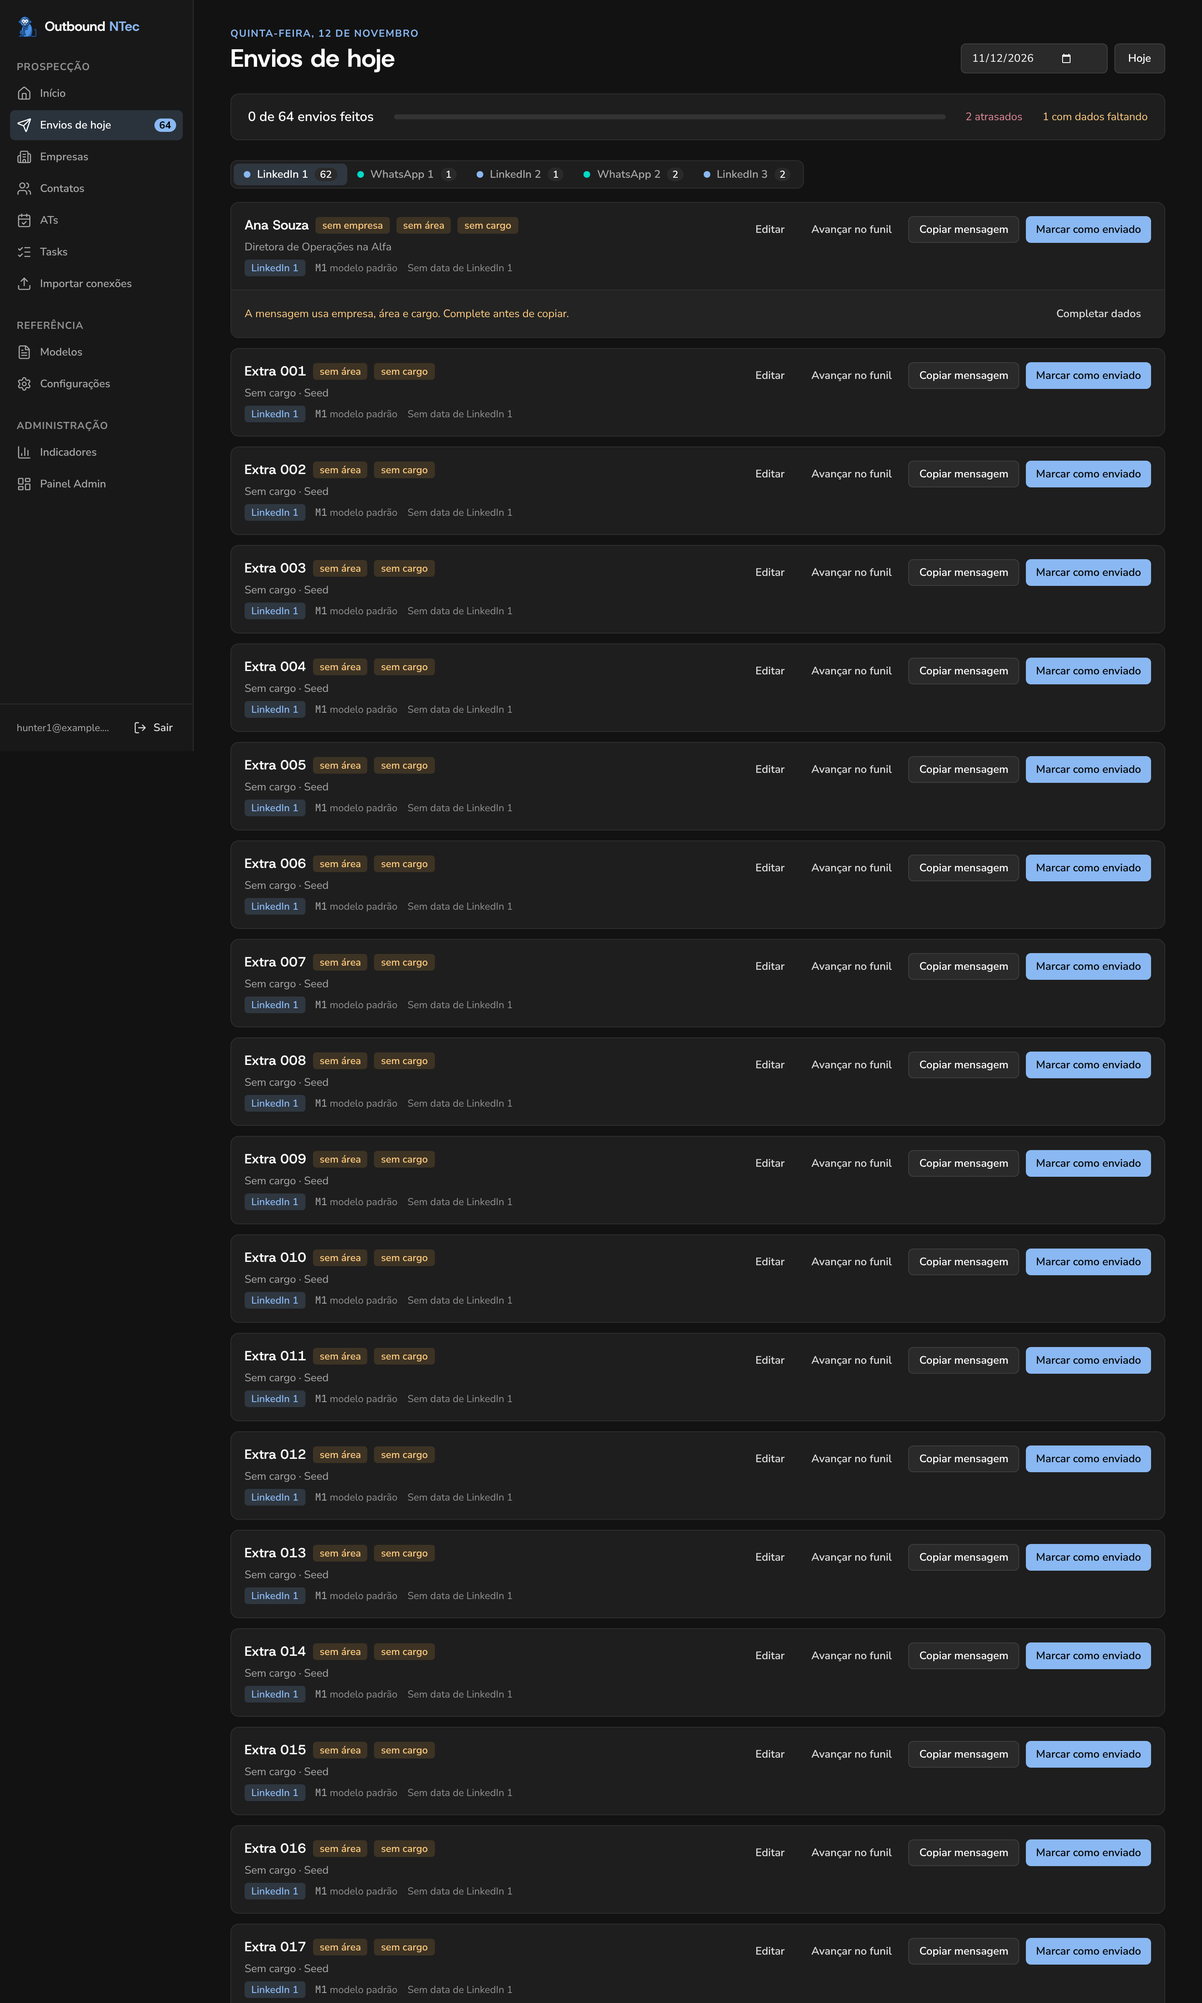
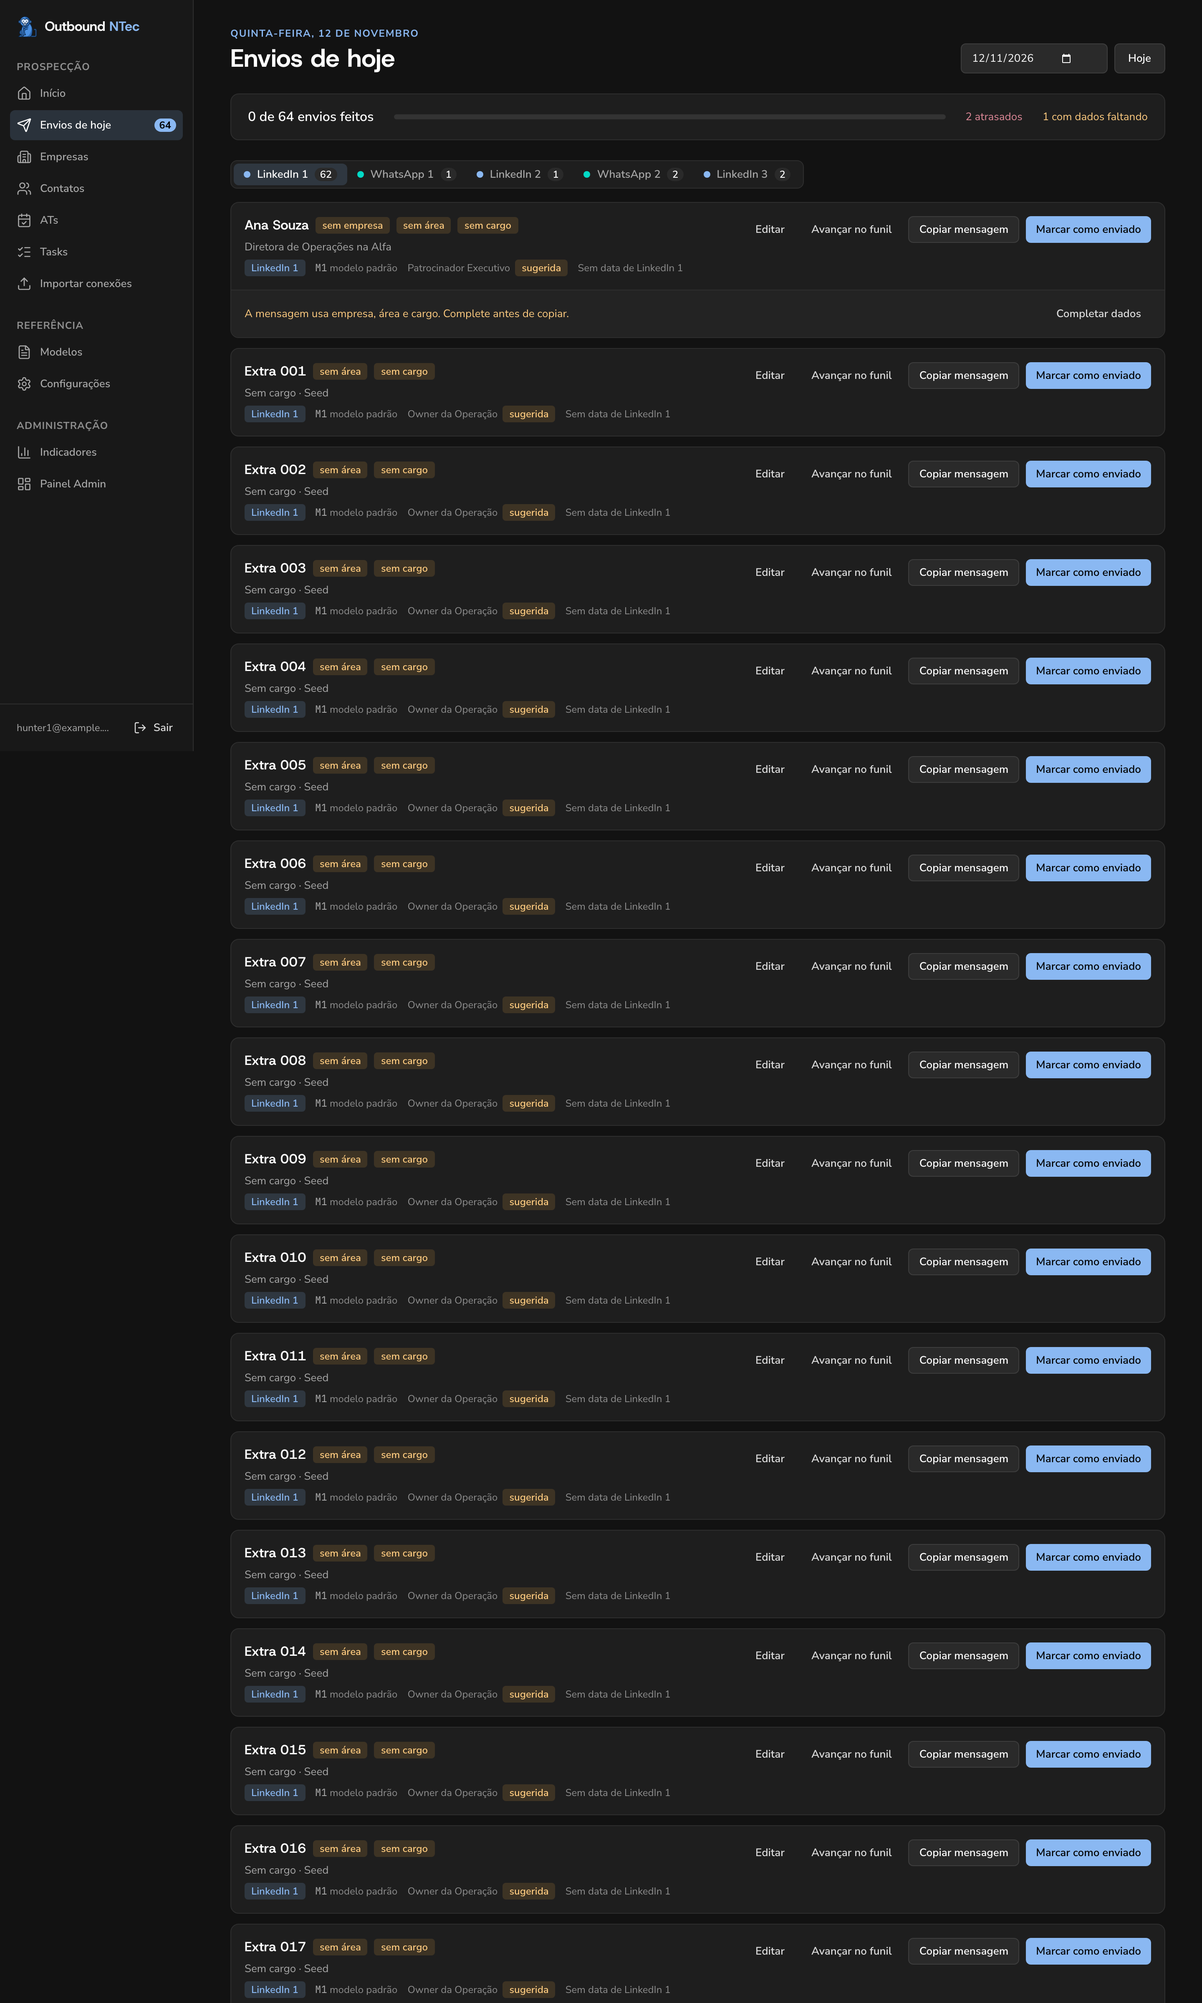
feat(hoje): mostra subsetor e persona da mensagem nos envios
O cartão da fila mostra setor › subsetor, o código da mensagem com a
origem no title e a persona efetiva do contato, com o selo "sugerida"
quando ainda não foi confirmada. O novo PersonaSelect, na faixa de dados
do lead, grava a persona escolhida (inclusive a sugerida, que confirma).

diff --git a/e2e/hoje.spec.ts b/e2e/hoje.spec.ts
@@ -71,6 +71,88 @@ test.describe("Envios de hoje", () => {
     );
   });
 
+  test("o cartão mostra a persona sugerida pelo cargo e a mensagem da persona", async ({
+    page,
+  }) => {
+    await page.goto("/hoje");
+    await page.getByRole("tab", { name: /^WhatsApp 2/ }).click();
+    const card = page.getByRole("article", { name: "Diego Rocha" });
+    await expect(card.getByText("Patrocinador Executivo")).toBeVisible();
+    await expect(card.getByText("sugerida", { exact: true })).toBeVisible();
+    // Setor da empresa, código com a origem do modelo e a persona usada.
+    await expect(card.getByText("Varejo", { exact: true })).toBeVisible();
+    const codigo = card.getByText("VAR4PE", { exact: true });
+    await expect(codigo).toHaveAttribute("title", "Varejo · Patrocinador Executivo");
+    await card.getByRole("button", { name: "Copiar mensagem" }).click();
+    await expect(page.getByText("Mensagem copiada")).toBeVisible();
+    expect(await page.evaluate(() => navigator.clipboard.readText())).toBe(
+      "Oi, Diego! Conversa de patrocinador na Delta.",
+    );
+  });
+
+  test("o código do modelo padrão diz a origem no title", async ({ page }) => {
+    await page.goto("/hoje");
+    await page.getByRole("tab", { name: /^WhatsApp 1/ }).click();
+    const card = page.getByRole("article", { name: "Bruno Lima" });
+    await expect(card.getByText("M2", { exact: true })).toHaveAttribute(
+      "title",
+      "Modelo padrão da equipe",
+    );
+    await expect(card.getByText("Owner da Tecnologia")).toBeVisible();
+  });
+
+  test("empresa com subsetor mostra setor › subsetor e a cadência do subsetor", async ({
+    page,
+  }) => {
+    await page.goto("/hoje");
+    const card = page.getByRole("article", { name: "Carla Dias" });
+    await expect(card.getByText("Indústria › Metalurgia", { exact: true })).toBeVisible();
+    await expect(card.getByText("MET1", { exact: true })).toHaveAttribute(
+      "title",
+      "Indústria › Metalurgia · qualquer persona",
+    );
+    await expect(card.getByText("cadência do setor")).toBeVisible();
+    await card.getByRole("button", { name: "Copiar mensagem" }).click();
+    await expect(page.getByText("Mensagem copiada")).toBeVisible();
+    expect(await page.evaluate(() => navigator.clipboard.readText())).toBe(
+      "Olá, Carla! Metalurgia 1 na Ômicron.",
+    );
+  });
+
+  test("persona sugerida aparece com selo e escolher uma persona grava no contato", async ({
+    page,
+  }) => {
+    await page.goto("/hoje");
+    const card = page.getByRole("article", { name: "Ana Souza" });
+    await card.getByRole("button", { name: "Completar dados" }).click();
+    const persona = card.getByRole("combobox", { name: "Persona" });
+    await expect(persona).toHaveValue("");
+    await expect(persona.locator("option").first()).toHaveText("Sugerida: Patrocinador Executivo");
+    // Um selo na meta-linha do cartão e outro ao lado do seletor.
+    await expect(card.getByText("sugerida", { exact: true })).toHaveCount(2);
+    expect(await mutations()).toEqual([]);
+
+    await persona.selectOption({ label: "Owner da Tecnologia" });
+    await expect.poll(async () => (await mutations()).length).toBe(1);
+    const [m] = await mutations();
+    expect(m).toMatchObject({ method: "PATCH", table: "contacts" });
+    expect(JSON.parse(m!.body)).toEqual({ persona: "owner_tecnologia" });
+  });
+
+  test("escolher a persona sugerida na lista também grava (confirma a sugestão)", async ({
+    page,
+  }) => {
+    await page.goto("/hoje");
+    const card = page.getByRole("article", { name: "Ana Souza" });
+    await card.getByRole("button", { name: "Completar dados" }).click();
+    await card
+      .getByRole("combobox", { name: "Persona" })
+      .selectOption({ label: "Patrocinador Executivo" });
+    await expect.poll(async () => (await mutations()).length).toBe(1);
+    const [m] = await mutations();
+    expect(JSON.parse(m!.body)).toEqual({ persona: "patrocinador_executivo" });
+  });
+
   test("lead sem empresa pede a empresa antes de copiar", async ({ page }) => {
     await page.goto("/hoje");
     await page.getByRole("button", { name: "Copiar mensagem" }).first().click();

diff --git a/e2e/empresas.spec.ts b/e2e/empresas.spec.ts
@@ -15,7 +15,8 @@ test.describe("Empresas", () => {
     ).toBeVisible();
     await expect(page.getByText("· 2 empresas", { exact: true })).toBeVisible();
     await expect(page.getByPlaceholder("Empresa").first()).toHaveValue("Delta");
-    await expect(page.getByText("1 contato", { exact: true })).toBeVisible();
+    // Delta (Diego) e Ômicron (Carla) têm um contato cada.
+    await expect(page.getByText("1 contato", { exact: true })).toHaveCount(2);
     // Só a Delta (Varejo) está incompleta; a Ômicron (Metalurgia) tem as 5 etapas.
     await expect(page.getByText("cadência do setor incompleta")).toHaveCount(1);
   });
@@ -99,11 +100,12 @@ test.describe("Empresas", () => {
       .filter({ has: page.getByRole("button", { name: "Copiar mensagem" }) })
       .last();
     await expect(card.getByText("Varejo", { exact: true })).toBeVisible();
-    await expect(card.getByText("VAR4")).toBeVisible();
+    // Diego é CEO (Patrocinador Executivo): a mensagem da persona vence a de "qualquer persona" (VAR4).
+    await expect(card.getByText("VAR4PE")).toBeVisible();
     await card.getByRole("button", { name: "Copiar mensagem" }).click();
     await expect(page.getByText("Mensagem copiada")).toBeVisible();
     expect(await page.evaluate(() => navigator.clipboard.readText())).toBe(
-      "Oi, Diego! Cadência do varejo na Delta.",
+      "Oi, Diego! Conversa de patrocinador na Delta.",
     );
   });
 
@@ -122,7 +124,15 @@ test.describe("Empresas", () => {
 
     const m = (await mutations()).find((x) => x.table === "sector_templates");
     expect(m).toMatchObject({ method: "POST" });
-    const rows = JSON.parse(m!.body) as { step: number; code: string; body: string }[];
+    const todas = JSON.parse(m!.body) as {
+      persona: string;
+      step: number;
+      code: string;
+      body: string;
+    }[];
+    // A persona Patrocinador Executivo, que já tinha texto, também segue junto (5 etapas).
+    expect(todas.filter((r) => r.persona === "patrocinador_executivo")).toHaveLength(5);
+    const rows = todas.filter((r) => r.persona === "");
     expect(rows).toHaveLength(5);
     expect(rows[0]).toMatchObject({
       sector_id: SETOR_VAREJO,
@@ -216,7 +226,9 @@ test.describe("Empresas", () => {
     expect(qualquer).toHaveLength(STEPS.length);
     expect(qualquer.find((r) => r.step === 4)).toMatchObject({ code: "VAR4" });
     // Personas sem texto nem linhas salvas não são enviadas.
-    expect(new Set(rows.map((r) => r.persona))).toEqual(new Set(["", "owner_operacao"]));
+    expect(new Set(rows.map((r) => r.persona))).toEqual(
+      new Set(["", "owner_operacao", "patrocinador_executivo"]),
+    );
   });
 
   test("preencher vazias com o padrão numa persona não altera as outras abas", async ({ page }) => {

diff --git a/src/components/hoje/useQueueActions.ts b/src/components/hoje/useQueueActions.ts
@@ -4,12 +4,13 @@ import {
   useCompanies,
   useProfile,
   useSectorCadences,
-  useSectors,
+  useSectorTree,
   useTemplates,
   useUpdateContact,
 } from "@/hooks/useCadencia";
 import { renderTemplate, whatsappLink, type Contact, type StepDef } from "@/lib/cadencia";
-import { markSentPatch, missingForMessage, resolveTemplate } from "@/lib/fila";
+import { markSentPatch, missingForMessage, resolveTemplate, templateOriginLabel } from "@/lib/fila";
+import { sectorPath } from "@/lib/empresas";
 import { contactPersona } from "@/lib/personas";
 
 /** Ações da fila do dia: marcar envio, copiar/abrir mensagem e completar dados do lead. */
@@ -17,10 +18,9 @@ export function useQueueActions(ref: string) {
   const { data: templates } = useTemplates();
   const { data: profile } = useProfile();
   const { data: companies } = useCompanies();
-  const { data: sectors } = useSectors();
+  const { data: sectors } = useSectorTree();
   const { data: cadences } = useSectorCadences();
   const companyById = useMemo(() => new Map((companies ?? []).map((c) => [c.id, c])), [companies]);
-  const sectorName = useMemo(() => new Map((sectors ?? []).map((s) => [s.id, s.name])), [sectors]);
   const update = useUpdateContact();
   /** Lead que precisa da empresa preenchida antes de gerar a mensagem. */
   const [needCompany, setNeedCompany] = useState<string | null>(null);
@@ -41,10 +41,12 @@ export function useQueueActions(ref: string) {
       },
     );
 
-  /** Setor (ramo) da empresa vinculada ao contato, se houver. */
+  /** Setor (ramo) da empresa vinculada ao contato, com o subsetor quando há: "Indústria › Metalurgia". */
   function sectorOf(contact: Contact): { id: string; name: string } | null {
     const co = contact.company_id ? companyById.get(contact.company_id) : undefined;
-    return co ? { id: co.sector_id, name: sectorName.get(co.sector_id) ?? "" } : null;
+    return co
+      ? { id: co.sector_id, name: sectorPath(sectors ?? [], co.sector_id, co.subsector_id) }
+      : null;
   }
 
   /**
@@ -62,7 +64,13 @@ export function useQueueActions(ref: string) {
       defaults: templates,
     });
     return found
-      ? { code: found.code, body: found.body, fromSector: found.level !== "padrao" }
+      ? {
+          code: found.code,
+          body: found.body,
+          fromSector: found.level !== "padrao",
+          /** Ex.: "Varejo · Patrocinador Executivo" ou "Modelo padrão da equipe". */
+          origin: templateOriginLabel(found, sectors ?? []),
+        }
       : null;
   }
 

diff --git a/src/components/hoje/QueueCard.tsx b/src/components/hoje/QueueCard.tsx
@@ -5,6 +5,7 @@ import { Button } from "@/components/ui/button";
 import { onlyDigits, type Contact, type StepDef } from "@/lib/cadencia";
 import { withSyncedStatus } from "@/lib/contatos";
 import { missingForMessage, type QueueItem } from "@/lib/fila";
+import { contactPersona, PERSONA_LABEL } from "@/lib/personas";
 import { cn } from "@/lib/utils";
 import { CompanyFix } from "./CompanyFix";
 import { LeadFields } from "./LeadFields";
@@ -44,6 +45,7 @@ export function QueueCard({
   const noArea = step.n === 1 && !contact.sector;
   const noCargo = step.n === 1 && !contact.job_title.trim();
   const sector = actions.sectorOf(contact);
+  const persona = contactPersona(contact);
   const template = actions.templateFor(contact, step);
   const missing = missingForMessage(contact, step, template?.body);
   const askedCompany = actions.needCompany === contact.id && noCompany;
@@ -104,14 +106,23 @@ export function QueueCard({
               </p>
               <div className="flex flex-wrap items-center gap-x-3 gap-y-1 text-caption text-subtle-foreground">
                 <ChannelBadge channel={step.channel}>{step.label}</ChannelBadge>
+                {sector?.name && <span>{sector.name}</span>}
                 {template && (
                   <span>
-                    <span className="font-mono text-muted-foreground">
+                    <span className="font-mono text-muted-foreground" title={template.origin}>
                       {template.code || (template.fromSector ? "setor" : "padrão")}
                     </span>{" "}
                     {template.fromSector ? "cadência do setor" : "modelo padrão"}
                   </span>
                 )}
+                <span>
+                  {PERSONA_LABEL[persona.persona]}
+                  {persona.suggested && (
+                    <span className="ml-1.5 rounded-sm bg-warning-soft px-2 py-0.5 font-semibold text-warning-text">
+                      sugerida
+                    </span>
+                  )}
+                </span>
                 {!late && (
                   <span>
                     {step.n === 1 && !planned
@@ -119,7 +130,6 @@ export function QueueCard({
                       : `previsto ${ddmm(planned)}`}
                   </span>
                 )}
-                {sector && <span>{sector.name}</span>}
               </div>
             </div>
             <div className="flex shrink-0 items-center gap-2">

diff --git a/src/components/PersonaSelect.tsx b/src/components/PersonaSelect.tsx
@@ -1,0 +1,50 @@
+import { NativeSelect } from "@/components/ui/native-select";
+import { PERSONAS, PERSONA_LABEL, type Persona } from "@/lib/personas";
+import { cn } from "@/lib/utils";
+
+/**
+ * Seletor da persona do contato. Com `value` nulo a persona ainda é a sugerida pelo cargo: a
+ * primeira opção mostra "Sugerida: <rótulo>" e um selo avisa. Escolher qualquer persona, inclusive
+ * a sugerida, grava e confirma (`onChange`). `compact` serve à tabela de Contatos (`h-8`).
+ */
+export function PersonaSelect({
+  value,
+  suggested,
+  onChange,
+  compact = false,
+  className,
+}: {
+  /** Persona gravada no contato (`null` = ainda sugerida). */
+  value: Persona | null;
+  /** Persona sugerida pelo cargo (`contactPersona(c).persona`), mostrada quando `value` é nulo. */
+  suggested: Persona;
+  onChange: (persona: Persona) => void;
+  compact?: boolean;
+  className?: string;
+}) {
+  return (
+    <span className="inline-flex items-center gap-1.5">
+      <NativeSelect
+        aria-label="Persona"
+        className={cn(compact ? "h-8" : "h-9", className)}
+        value={value ?? ""}
+        onChange={(e) => {
+          // A opção "Sugerida" (valor "") já vem selecionada, então o evento só traz personas reais.
+          onChange(e.target.value as Persona);
+        }}
+      >
+        {!value && <option value="">Sugerida: {PERSONA_LABEL[suggested]}</option>}
+        {PERSONAS.map((p) => (
+          <option key={p.key} value={p.key}>
+            {p.label}
+          </option>
+        ))}
+      </NativeSelect>
+      {!value && (
+        <span className="rounded-sm bg-warning-soft px-2 py-0.5 text-caption font-semibold text-warning-text">
+          sugerida
+        </span>
+      )}
+    </span>
+  );
+}

diff --git a/src/components/hoje/LeadFields.tsx b/src/components/hoje/LeadFields.tsx
@@ -1,10 +1,12 @@
 import { useState } from "react";
 import { CompanyGenderToggle } from "@/components/CompanyGender";
 import { CompanySelect } from "@/components/CompanySelect";
+import { PersonaSelect } from "@/components/PersonaSelect";
 import { SectorSelect } from "@/components/SectorSelect";
 import { Input } from "@/components/ui/input";
 import type { Contact } from "@/lib/cadencia";
 import type { Company } from "@/lib/empresas";
+import { contactPersona } from "@/lib/personas";
 import { cn } from "@/lib/utils";
 
 /** Campos editáveis do lead na fila (nome, empresa e, no LinkedIn 1, área e cargo). */
@@ -21,6 +23,7 @@ export function LeadFields({
 }) {
   const [cargo, setCargo] = useState(contact.job_title);
   const [nome, setNome] = useState(contact.name);
+  const persona = contactPersona(contact);
   return (
     <div className="flex w-full flex-wrap items-center gap-2">
       <Input
@@ -53,6 +56,13 @@ export function LeadFields({
           />
         </span>
       )}
+      <PersonaSelect
+        value={contact.persona}
+        suggested={persona.persona}
+        onChange={(p) => onPatch({ persona: p })}
+        compact
+        className="w-56"
+      />
       {showStep1 && (
         <>
           <SectorSelect

diff --git a/e2e/indicadores.spec.ts b/e2e/indicadores.spec.ts
@@ -95,10 +95,10 @@ test.describe("Indicadores", () => {
     const alertas = page.getByRole("region", { name: /^Quem precisa de ajuda/ });
     await expect(alertas.getByRole("listitem")).toHaveCount(5);
     await expect(alertas.getByText(/setor Varejo/)).toHaveCount(0);
-    // Inclui "empresa Ômicron sem nenhum contato" e "setor Indústria: cadência sem mensagem própria".
-    // Este último é falso positivo conhecido: o alerta olha só o setor, não a cadência do subsetor.
-    await alertas.getByRole("button", { name: "Ver todos os 9" }).click();
-    await expect(alertas.getByRole("listitem")).toHaveCount(9);
+    // Entre eles está "setor Indústria: cadência sem mensagem própria", o único falso positivo
+    // conhecido: o alerta olha só o setor, não a cadência do subsetor (a Ômicron tem a Carla Dias).
+    await alertas.getByRole("button", { name: "Ver todos os 8" }).click();
+    await expect(alertas.getByRole("listitem")).toHaveCount(8);
     await expect(alertas.getByText(/setor Varejo/)).toBeVisible();
     await alertas.getByRole("button", { name: "Mostrar só os mais urgentes" }).click();
     await expect(alertas.getByRole("listitem")).toHaveCount(5);

diff --git a/docs/redesign/DESIGN.md b/docs/redesign/DESIGN.md
@@ -99,6 +99,7 @@ Todos sobre shadcn/ui (Radix). Ícones: lucide, traço 1.75, 16–18 px, `curren
     - Descartado: `destructive-soft`.
   - Funil (`FunnelBadge`): `rounded-sm`, azul que se intensifica por etapa de `FUNNEL`; a última etapa ("Projeto vendido") é `bg-success text-black`.
   - Pendência: `rounded-sm bg-warning-soft text-warning-text`, "sem empresa" / "sem área" / "sem cargo".
+  - Persona (`PersonaSelect`): `NativeSelect` (`h-8` no modo compacto); persona ainda não gravada mostra "Sugerida: <rótulo>" e o selo `text-caption bg-warning-soft` "sugerida".
 - **Tabela de dados**
   - Visual: `bg-card rounded-xl border overflow-x-auto` + `table-dense`.
   - Cabeçalho `bg-surface-inset`, hover de linha, seleção por checkbox com barra de lote acima (`bg-primary-soft border-primary/35`).
@@ -140,9 +141,9 @@ Todos sobre shadcn/ui (Radix). Ícones: lucide, traço 1.75, 16–18 px, `curren
 - **Envios de hoje (prioridade)**
   - Topo: barra de progresso do dia (feitos / total, atrasados, com dados faltando) e abas por etapa de `STEPS` com contagem.
   - Cartão:
-    - Linha principal: nome (`text-card-title`) + selos (Atrasado · previsto DD/MM, pendências), cargo · empresa, e a meta-linha (selo de canal, código do modelo em mono + "modelo padrão"/"cadência do setor", previsto, setor).
+    - Linha principal: nome (`text-card-title`) + selos (Atrasado · previsto DD/MM, pendências), cargo · empresa, e a meta-linha (selo de canal, código do modelo em mono + "modelo padrão"/"cadência do setor" com o `title` do código dizendo a origem, previsto, setor › subsetor e a persona usada).
     - Ações à direita, nesta ordem: Avançar no funil (ghost) · Copiar mensagem / Abrir WhatsApp (secundário) · **Marcar como enviado** (primário).
-    - Os campos do lead (nome, empresa, concordância, área, cargo) ficam **recolhidos** numa faixa `bg-surface-inset` que só aparece quando falta dado que a mensagem usa ("A mensagem usa empresa, área e cargo. Complete antes de copiar." + "Completar dados").
+    - Os campos do lead (nome, empresa, concordância, persona, área, cargo) ficam **recolhidos** numa faixa `bg-surface-inset` que só aparece quando falta dado que a mensagem usa ("A mensagem usa empresa, área e cargo. Complete antes de copiar." + "Completar dados").
     - Cartão atrasado: `border-destructive-border`.
   - Rodapé: "Mostrando X de Y" + "Mostrar mais 50".
 - **Indicadores**
